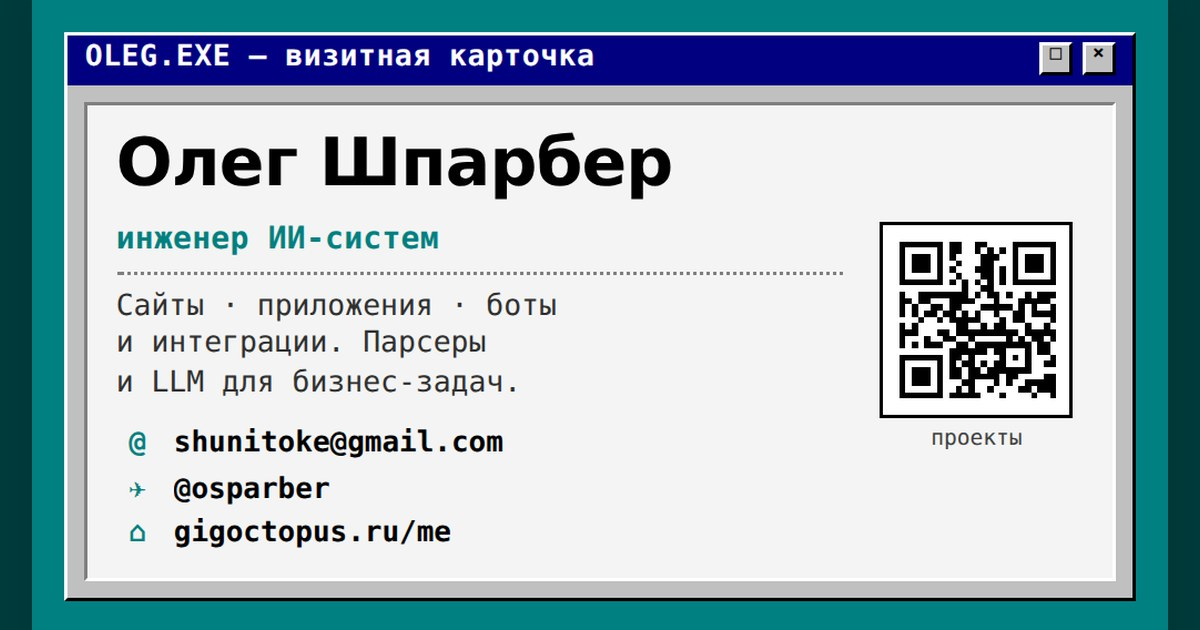
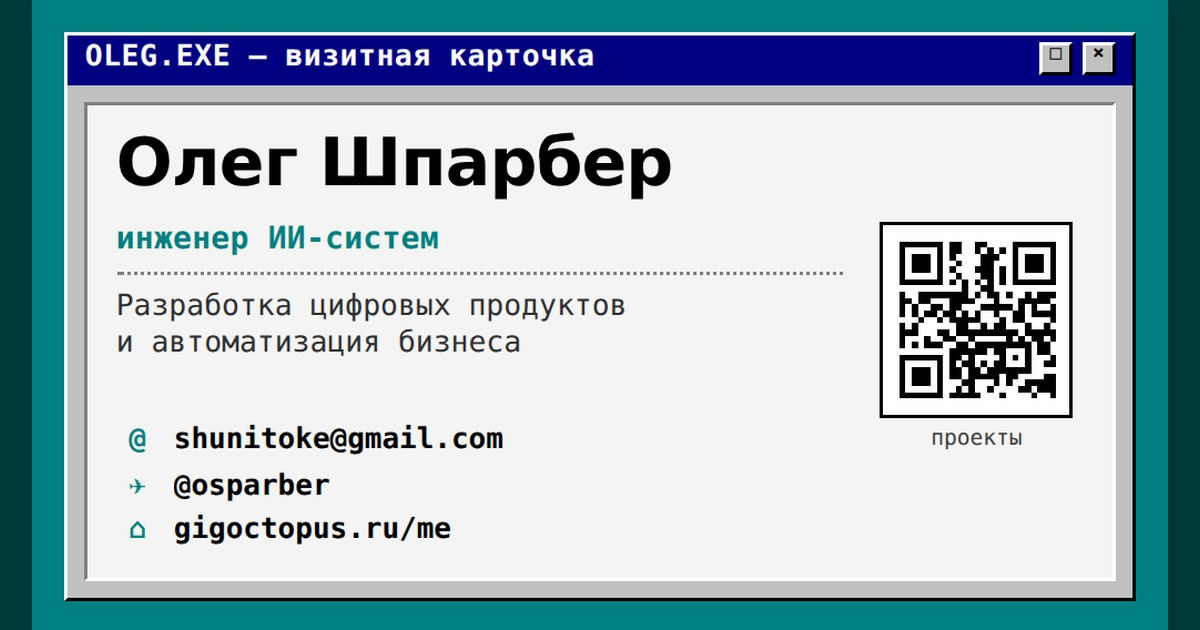
Визитка: слоган «Разработка цифровых продуктов и автоматизация бизнеса»
Две строки вместо трёх (колонка 57,9 мм, строка занимает 40,6 мм).
Пересобраны оба PDF и og-превью, QR читаются после CMYK.

Changed region(s): [[0.0925, 0.4524, 0.5242, 0.6333], [0.0925, 0.754, 0.37, 0.8746], [0.0925, 0.6635, 0.4317, 0.7238]]

diff --git a/index.html b/index.html
@@ -936,7 +936,7 @@ const PROJECTS = {
     what: 'Афиши площадок живут в десятках Telegram-каналов, у каждой свой формат и свои правила. Чтобы узнать, что идёт в городе сегодня, приходится держать открытыми два десятка каналов.',
     stack: 'Python · SQLite · Telethon · GigaChat · systemd · nginx',
     facts: [
-      '10 859 событий из 153 источников и 88 площадок, 556 подтверждены полностью',
+      '11 162 событий из 154 источников и 91 площадки, 611 подтверждены полностью',
       'Даты, цены и адреса берутся из текста поста: у каждого поля есть ссылка на первоисточник',
       'У каждого поля есть ссылка на источник, любое изменение пишется с историей',
       'Один реестр кормит шесть поверхностей: канал, mini app, сайт, голосовой бот, стейдж, админку',

diff --git a/visitka.html b/visitka.html
@@ -246,9 +246,8 @@
         <div class="role">инженер ИИ-систем</div>
         <div class="rule"></div>
         <div class="tagline">
-          Сайты · приложения · боты<br>
-          и интеграции. Парсеры<br>
-          и LLM для бизнес-задач.
+          Разработка цифровых продуктов<br>
+          и автоматизация бизнеса
         </div>
         <div class="contacts">
           <div class="line"><span class="k">@</span><span class="v">shunitoke@gmail.com</span></div>

diff --git a/mkog.py b/mkog.py
@@ -1,0 +1,31 @@
+"""og:image из лицевой стороны визитки: 1200x630 JPEG.
+
+Снимаем .card в 3x, срезаем 3 мм вылетов, вписываем по высоте 630 и центрируем
+на холсте 1200x630, залитом тилом. Мессенджеры webp не показывают, поэтому JPEG.
+"""
+from PIL import Image, ImageFilter
+
+TILE = (0, 59, 59)
+SRC = '/tmp/gstmp/visitka-front.png'
+OUT = '/home/shuni/projects/portfolio/assets/og-preview-20261103.jpg'
+
+img = Image.open(SRC).convert('RGB')
+w, h = img.size
+bleed = round(h * 3 / 56)
+img = img.crop((bleed, bleed, w - bleed, h - bleed))
+
+scale = 630 / img.height
+img = img.resize((round(img.width * scale), 630), Image.LANCZOS)
+
+canvas = Image.new('RGB', (1200, 630), TILE)
+
+shadow = Image.new('RGB', (1200, 630), TILE)
+dark = Image.new('RGB', img.size, (0, 32, 32))
+mask = Image.new('L', img.size, 90)
+shadow.paste(dark, ((1200 - img.width) // 2 + 6, 6), mask)
+shadow = shadow.filter(ImageFilter.GaussianBlur(18))
+canvas = Image.blend(canvas, shadow, 0.55)
+
+canvas.paste(img, ((1200 - img.width) // 2, 0))
+canvas.save(OUT, 'JPEG', quality=88, optimize=True)
+print(f'og-preview: {canvas.size}, {round(len(open(OUT, "rb").read())/1024)} КБ')

diff --git a/README.md b/README.md
@@ -39,7 +39,7 @@ NODE_PATH=/path/to/node_modules node mkvisitka.js
 
 ## Принципы, по которым это сделано
 
-- **Никаких выдуманных чисел.** Каждая цифра в карточках проверяема: 10 859 событий и 153 источников
+- **Никаких выдуманных чисел.** Каждая цифра в карточках проверяема: 11 162 событий и 154 источников
   у СПРУТа, 2 103 предмета в каталоге марок. Что не подтверждается — в витрину не попадает.
 - **Работа отделена от пет-проектов.** Две группы сетки: клиенты и продакшен против экспериментов.
   Пока шутки стоят в одном ряду с клиентскими работами, витрина читается как «делает что нравится».
